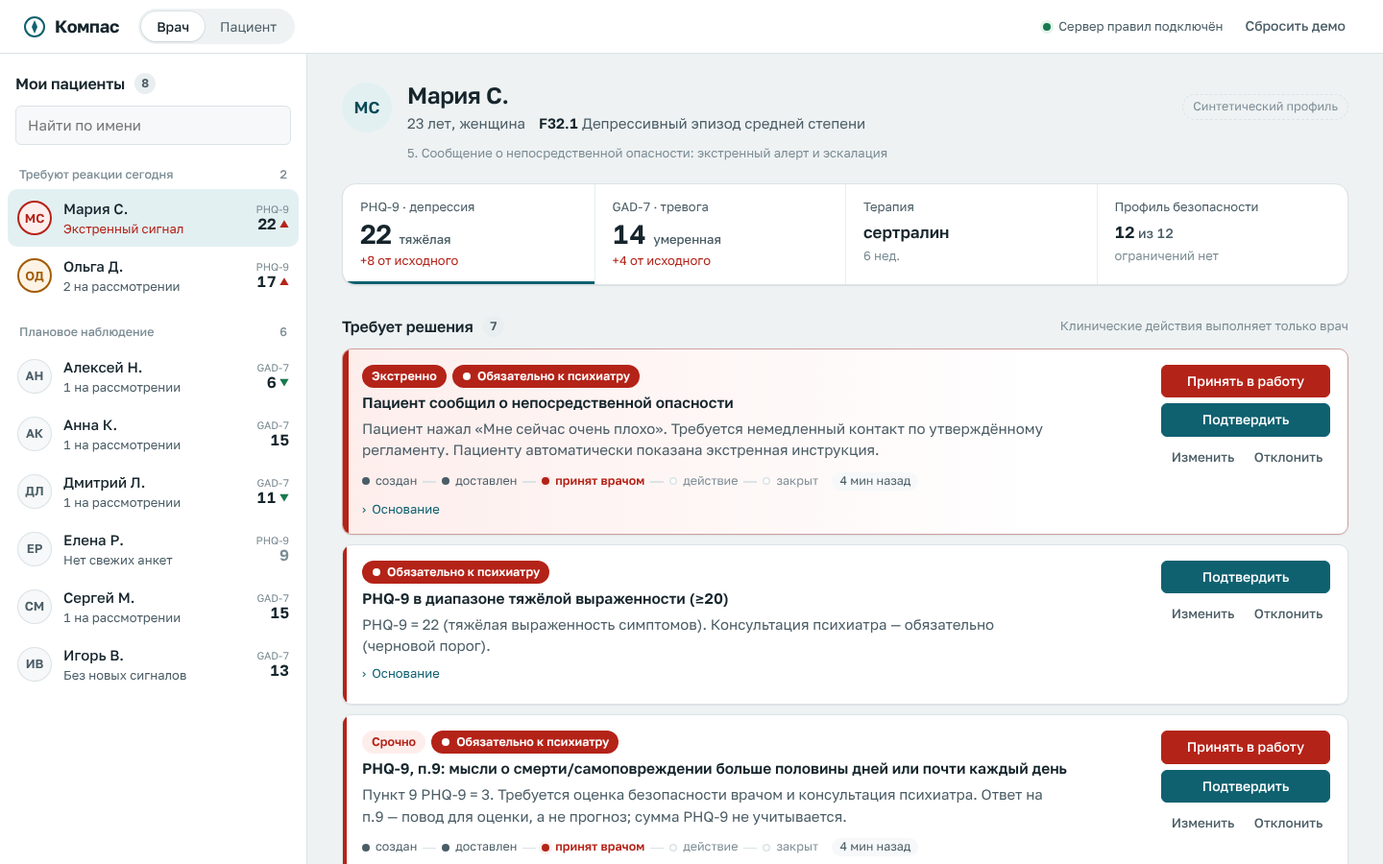
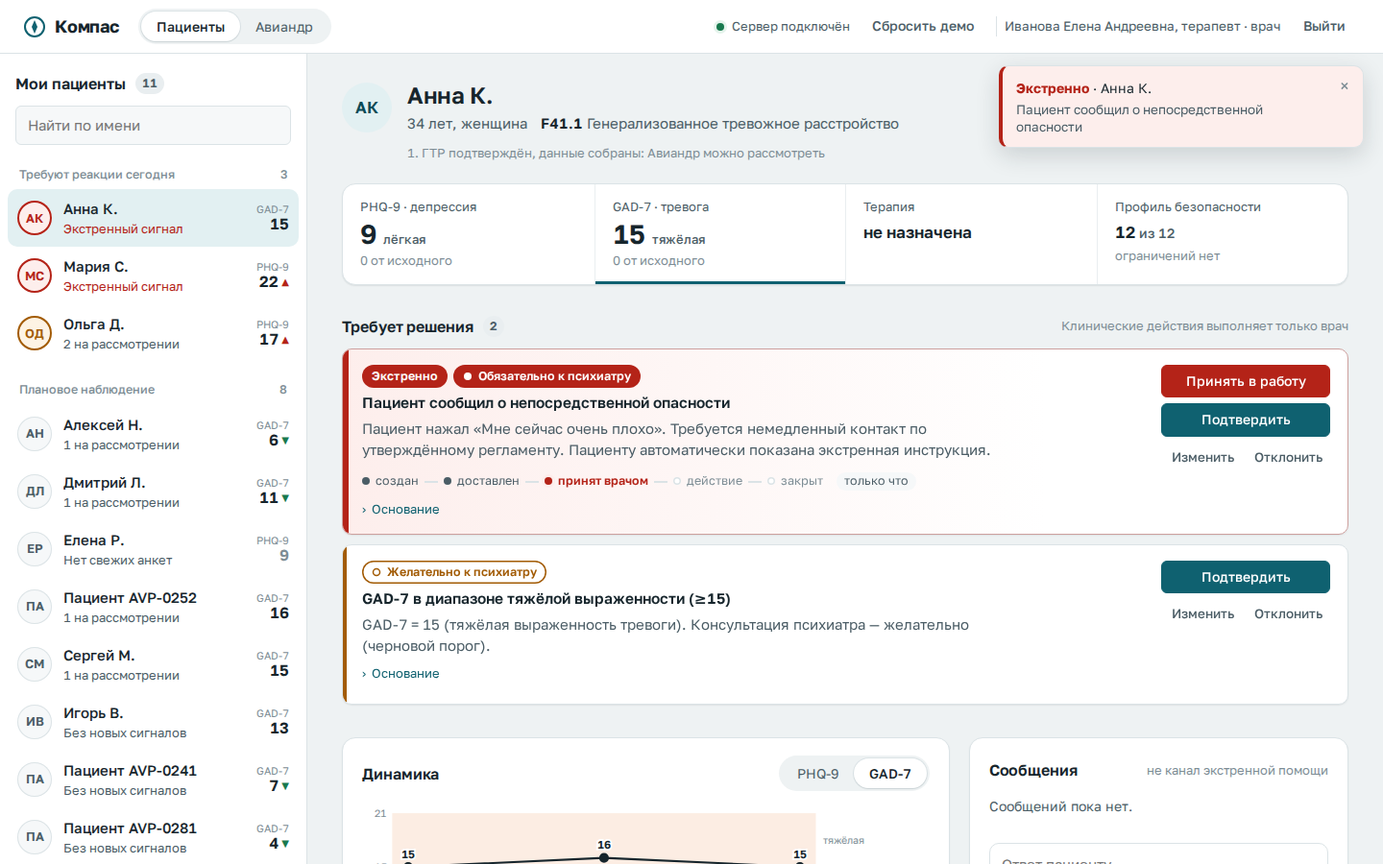
README: запуск, роли, соответствие ТЗ, метрики, архитектура; requirements, Dockerfile, новые скриншоты

diff --git a/README.md b/README.md
@@ -1,66 +1,124 @@
-# Компас — цифровой ассистент врача (прототип)
+# Компас — цифровой ассистент врача
 
-Система поддержки решений для ведения взрослых пациентов с тревожной и депрессивной
-симптоматикой. Два кабинета (врач и пациент), стандартизированные шкалы, динамика,
-проверка применимости препарата, алертинг и маршрутизация. **Все клинические действия
-выполняет только врач.** Все данные синтетические.
+Система поддержки решений для ведения взрослых пациентов с тревожной и депрессивной симптоматикой.
+Три роли — **врач**, **пациент**, **исследователь**. Валидированные шкалы, динамика, проверка
+применимости препарата по инструкции из ГРЛС, алертинг с эскалацией, маршрутизация к психиатру
+«обязательно / желательно», переписка, приверженность и **наблюдение применения Авиандра** на данных,
+которые вводят врач и пациент. Все клинические действия выполняет только врач. Все данные синтетические.
 
-![Кабинет врача](docs/screenshots/doctor.png)
+| Вход по ролям | Живой алерт врачу |
+|---|---|
+| ![Вход](docs/screenshots/login.png) | ![Кабинет врача](docs/screenshots/doctor.png) |
+| **Кабинет пациента** | **Авиандр: наблюдение применения** |
+| ![Кабинет пациента](docs/screenshots/patient.png) | ![Аналитика](docs/screenshots/analytics.png) |
 
-![Кабинет пациента](docs/screenshots/patient.png)
-
-## Состав
-
-```
-kompas_core/        ядро клинической логики (роль 2), чистый Python + PyYAML
-  scales/*.yaml     паспорта шкал PHQ-9, GAD-7: расчёт, пропуски, пороги, источники
-  rules/*.yaml      правила алертинга и маршрутизации (черновики до утверждения)
-  drugs/*.yaml      карточка Авиандра (по вторичному источнику — сверить с ГРЛС)
-  scales.py         подсчёт с явной политикой пропусков
-  dynamics.py       MCID, надёжное изменение (RCI), ответ, ремиссия, тренд
-  rules_engine.py   движок правил с трёхзначной логикой (да / нет / неизвестно)
-  drugs.py          проверка показаний, противопоказаний, взаимодействий
-  text_screen.py    вспомогательный поиск тревожных фраз в дневнике
-  pipeline.py       evaluate_patient(record) → JSON для API
-synthetic/          генератор пациентов с независимым эталоном + демо-сценарии
-evaluation/         оценка алертинга: чувствительность, специфичность, PPV с ДИ
-analysis/           скрипты для открытых датасетов (психометрика, динамика)
-api_stub/           эталонный FastAPI без БД — для демо и как образец бэкенду
-frontend/           интерфейс врача и пациента (роль 4), React + TypeScript + Vite
-tests/              58 тестов ядра
-docs/METHODOLOGY.md решения, источники, ограничения, вопросы клиническому лиду
-docs/API_CONTRACT.md формат данных для бэкенда
-```
-
-## Запуск
+## Запуск за минуту
 
 ```bash
-pip install pyyaml pytest fastapi uvicorn pandas scipy
-python -m pytest                                  # тесты ядра
-python evaluation/evaluate_alerts.py              # метрики → evaluation/results/
-python synthetic/demo_patients.py                 # демо-данные для фронтенда
-
-uvicorn api_stub.main:app --port 8000             # сервер правил (терминал 1)
-cd frontend && npm install && npm run dev          # интерфейс (терминал 2) → http://localhost:5173
+pip install -r requirements.txt
+cd frontend && npm ci && npm run build && cd ..
+python -m server                      # → http://localhost:8000
 ```
 
-Без сервера интерфейс открывается на демо-данных, но правила не пересчитываются:
-клиническая логика живёт только на сервере и во фронтенде не дублируется.
+При первом запуске БД (`data/kompas.db`) заполняется демо-данными. Можно и через Docker:
+`docker build -t kompas . && docker run -p 8000:8000 kompas`.
 
-## Сценарий для записи экрана (≈ 90 секунд)
+| Демо-аккаунт (пароль `demo`) | Роль | Что показать |
+|---|---|---|
+| `ivanova` | лечащий врач | триаж пациентов, алерты, решения, аналитика Авиандра по своим пациентам |
+| `petrov` | заместитель | получает алерт, если лечащий врач не принял его за `KOMPAS_ESCALATE_AFTER_S` (60 с) |
+| `anna`, `maria`, `alexey` … | пациенты | анкета PHQ-9 + GAD-7, дневник, отметка приёма, сообщения, кнопка «Мне сейчас очень плохо» |
+| `researcher` | исследователь | только обезличенная аналитика, группы меньше 5 человек скрыты |
 
-1. Кабинет врача: триаж-список, у Марии С. экстренный сигнал — показать жизненный цикл алерта, «Основание» с источниками.
-2. Анна К.: Авиандр «можно рассмотреть»; Игорь В.: «недостаточно данных»; Сергей М.: «не подходит» (противопоказание).
-3. Переключиться на «Пациент» → Анна заполняет анкету, на вопрос 9 отвечает «Более половины дней» → отправляет.
-4. Вернуться к врачу: у Анны срочный алерт «Обязательно: психиатр» → «Принять в работу» → «Подтвердить» → запись в журнале.
-5. Кнопка «Мне сейчас очень плохо» у пациента: экстренная инструкция показывается сразу.
+Врача и пациента удобно открыть в двух вкладках: вход у каждой вкладки свой.
 
-## Анализ открытых датасетов
+## Задачи ТЗ → где в прототипе
+
+| Задача инструмента | Реализация |
+|---|---|
+| 1. Стандартизированная оценка | PHQ-9 и GAD-7 с паспортами (`kompas_core/scales/*.yaml`): расчёт, пропуски, пороги, валидация русских версий; п.9 никогда не восстанавливается |
+| 2. Сведения о терапии | Карточка Авиандра, **сверенная с инструкцией из ГРЛС**: показания, противопоказания, взаимодействия; статусы «можно рассмотреть / не подходит / недостаточно данных», рекомендации «назначить» нет |
+| 3. Риски и нежелательные явления | Профиль безопасности с трёхзначной логикой (неизвестно ≠ нет), дневник НЯ, серьёзное НЯ → срочный алерт |
+| 4. Мониторинг динамики | MCID, надёжное изменение, ответ, ремиссия, полнота наблюдения; пропуски не считаются стабильностью |
+| 5. Интерфейс пациента | Анкета (раз в 2 недели — окно шкалы), дневник, отметка приёма, своя динамика, экстренная инструкция без ожидания сервера |
+| 6. Каналы коммуникации | Переписка врач ↔ пациент со статусами «отправлено / доставлено / прочитано»; сигналы — отдельным контуром (SSE) |
+| 7. Приверженность | Ежедневные отметки «принял / пропустил»; подтверждённые, пропуски и дни без отметки считаются отдельно |
+| 8. Направление к психиатру | Две оси: «обязательно / желательно» и «экстренно / срочно / планово», визуально различимы; основание и источник у каждого сигнала |
+| **Сверх ТЗ** | **Наблюдение применения Авиандра**: KPI курсов, медианная динамика по исходу (продолжил / отменён из-за НЯ / из-за неэффективности), причины отмен, приверженность, НЯ, контекст выборки и **индекс устойчивой пользы** с 95 % ДИ |
+
+## Обязательные условия ТЗ
+
+| Условие | Как выполнено |
+|---|---|
+| Роли с раздельными правами | Вход по токену; права проверяет сервер: пациент — только своя карточка, врач — свои пациенты, исследователь — только агрегаты. Матрица из 32 проверок «роль × действие × свой/чужой» и проверка обязательного входа на 17 путях API — 0 несанкционированных доступов |
+| Связь «врач — пациент» | Данные пациента попадают в карточку его лечащего врача без посредников; заместитель получает доступ только к пациенту эскалированного сигнала |
+| Клинические действия — только врач | Система не назначает, не меняет и не отменяет терапию; каждое предложение подтверждается, меняется или отклоняется (с причиной) и пишется в журнал с версией правила |
+| Сценарии с Авиандром | 8 сценариев (`synthetic/demo_patients.py`): можно рассмотреть, противопоказание, нет показания, недостаточно данных, экстренный случай, НЯ, пропуски, ответ на терапию |
+| Алертинг | Алерт создаётся в одной транзакции с данными, доставляется врачу сразу (SSE), имеет жизненный цикл (создан → доставлен → принят → закрыт) и эскалируется заместителю |
+| Выделение сигналов | «Обязательно» — красный, «желательно» — янтарный, безопасность терапии — фиолетовый; экстренные сверху |
+| Только препараты РФ в рамках инструкции | Источник — листок-вкладыш из ГРЛС (РУ ЛП-№(002445)-(РГ-RU), файл 29.07.2026); off-label система не предлагает |
+| Клинические рекомендации, шкалы, источники | Каждое правило несёт источник и версию; паспорта шкал — с русскими валидациями (Золотарева 2023); см. [METHODOLOGY](docs/METHODOLOGY.md) |
+| Конфиденциальность | Журнал доступа, псевдонимизация и k-анонимность для исследователя, синтетические данные, минимум сведений в уведомлениях |
+
+## Метрики
+
+| Метрика ТЗ | Результат | Отчёт |
+|---|---|---|
+| Корректность шкал и правил | 197 автотестов ядра и сервера + 9 сквозных сценариев в браузере, 0 падений | `pytest`, `pytest e2e` |
+| Точность алертинга (синтетика n=1000) | сигнал безопасности: чувствительность 0,89 [0,84; 0,93], специфичность 0,93; «обязательно к психиатру»: 0,96 / 0,96 | [alert_eval](evaluation/results/alert_eval.md) |
+| Время доставки алерта | сохранение → алерт **3 мс** (p50); отправка пациентом → у врача на экране **10–14 мс** p50, 64 мс p95; потерь 0 из 200 | [alert_latency](evaluation/results/alert_latency.md) |
+| Нагрузка | 100 сессий, 2784 запроса, **0 ошибок**; p95 самоотчёта 238 мс, карточки 921 мс, аналитики 1,8 с (цель ≤ 2–3 с) | [load_test](evaluation/results/load_test.md) |
+| Отказоустойчивость | `kill -9` посреди потока самоотчётов, 5 прогонов: **0 потерь** из 387 подтверждённых, 0 дублей при повторе, недоставленные алерты пришли после рестарта, восстановление ≤ 2,6 с | [recovery](evaluation/results/recovery.md) |
+| Быстродействие правил | расчёт всех правил и проверки препарата для пациента — 0,4 мс | — |
+
+## Архитектура
+
+```mermaid
+flowchart LR
+  P[Кабинет пациента] -->|самоотчёт, ключ идемпотентности| API
+  D[Кабинет врача] <-->|REST + SSE-поток сигналов| API
+  R[Исследователь] -->|только агрегаты, k ≥ 5| API
+  subgraph Сервер
+    API[FastAPI, N процессов] --> CORE[kompas_core: шкалы, правила YAML, карточка препарата, аналитика]
+    API --> DB[(SQLite WAL: данные, алерты, журнал доступа)]
+    ESC[Эскалация к заместителю] --> DB
+  end
+```
+
+* **Ядро `kompas_core`** — чистая библиотека без сети и БД. Шкалы, правила алертинга и маршрутизации,
+  препараты — в YAML: их можно добавлять и менять без изменения ядра.
+* **Сервер `server/`** хранит данные, проверяет права, создаёт алерты в той же транзакции, что и данные
+  пациента (с fsync), и доставляет их врачу через SSE. Недоставленный алерт берётся из БД, поэтому
+  переживает разрыв связи, перезапуск и работу в нескольких процессах.
+* **Аналитика** строится из тех же таблиц, что заполняют врач и пациент: каждый новый самоотчёт и
+  отметка приёма сразу попадают в наблюдение применения препарата.
+
+Подробности: [контракт данных](docs/API_CONTRACT.md), [методология и источники](docs/METHODOLOGY.md).
+
+## Структура
+
+```
+kompas_core/   ядро: шкалы, динамика, правила (YAML), препарат, аналитика
+server/        FastAPI + SQLite: роли, алерты, сообщения, приём, аналитика, раздача интерфейса
+frontend/      React + TypeScript: вход, кабинеты врача и пациента, аналитика
+synthetic/     сценарии ТЗ, синтетическая когорта курсов Авиандра, генератор для оценки алертинга
+evaluation/    метрики: алертинг, нагрузка, доставка алерта, восстановление → evaluation/results/
+tests/, e2e/   автотесты ядра и сервера; сквозные сценарии в браузере (Playwright)
+```
+
+## Тесты
 
 ```bash
-python analysis/psychometrics.py data/mendeley.csv --out analysis/results/mendeley
-python analysis/monitoring.py data/kaggle.csv --id <колонка id> --time <колонка дня> --score <сумма PHQ-9>
+python -m pytest -q                     # ядро и сервер
+pip install playwright && playwright install chromium
+python -m pytest e2e -q                 # сквозные сценарии через интерфейс
+cd frontend && npm test                 # логика экрана аналитики
 ```
 
-До запуска прочитайте раздел 7 в `docs/METHODOLOGY.md`: описание датасета Mendeley на сайте
-не совпадает с описанием организаторов.
+## Ограничения
+
+Прототип для демонстрации на синтетических данных. До реальных пациентов нужны утверждение правил и
+порогов клиническим лидом, подпись сверки карточки препарата, дословные валидированные русские тексты
+анкет, правовая оценка (152-ФЗ, 323-ФЗ, статус медицинского изделия), MFA врачей и регламент
+реагирования на алерты. Наблюдение применения препарата — описание без контрольной группы, а не
+доказательство эффективности.
